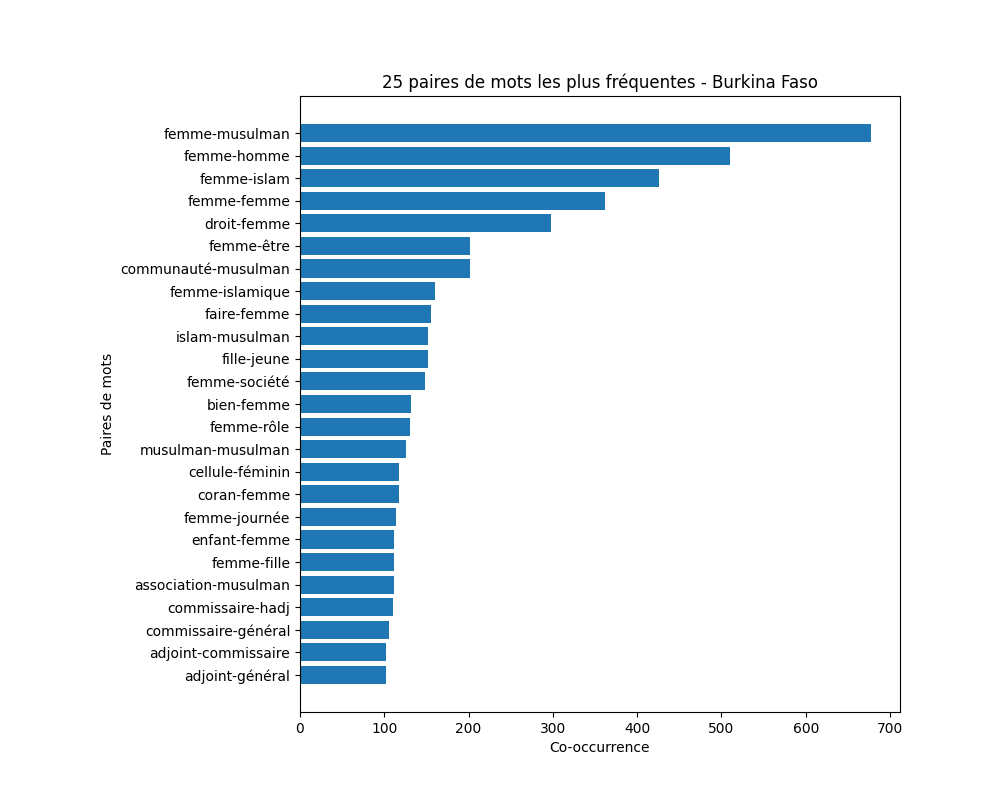
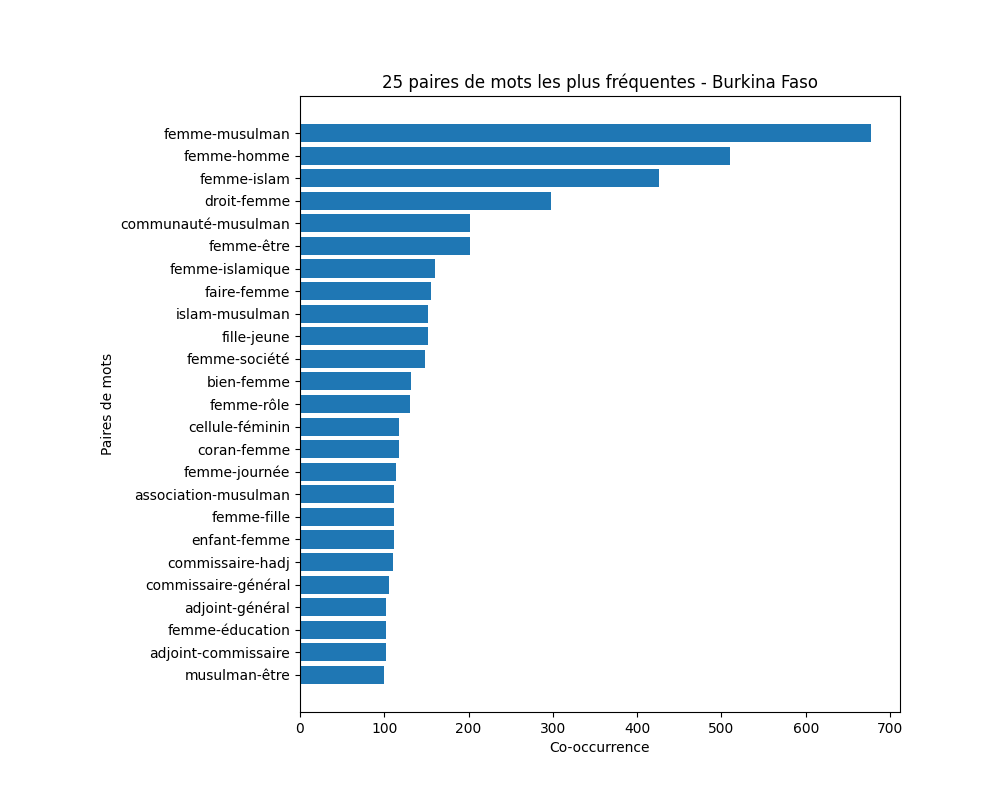
Exclusion paires de mots identiques

diff --git a/5. matrice_co-occurrence.py b/5. matrice_co-occurrence.py
@@ -30,6 +30,9 @@ def calculate_co_occurrences(content_list, window_size=5):
             for j in range(start, end):
                 if i != j:
                     co_occurred_word = content[j]
+                    # Ignorer si le mot cible est identique au mot co-occurrent
+                    if target_word == co_occurred_word:
+                        continue
                     ordered_pair = tuple(sorted((target_word, co_occurred_word)))
                     co_occurrence[ordered_pair] += 1
     return co_occurrence
